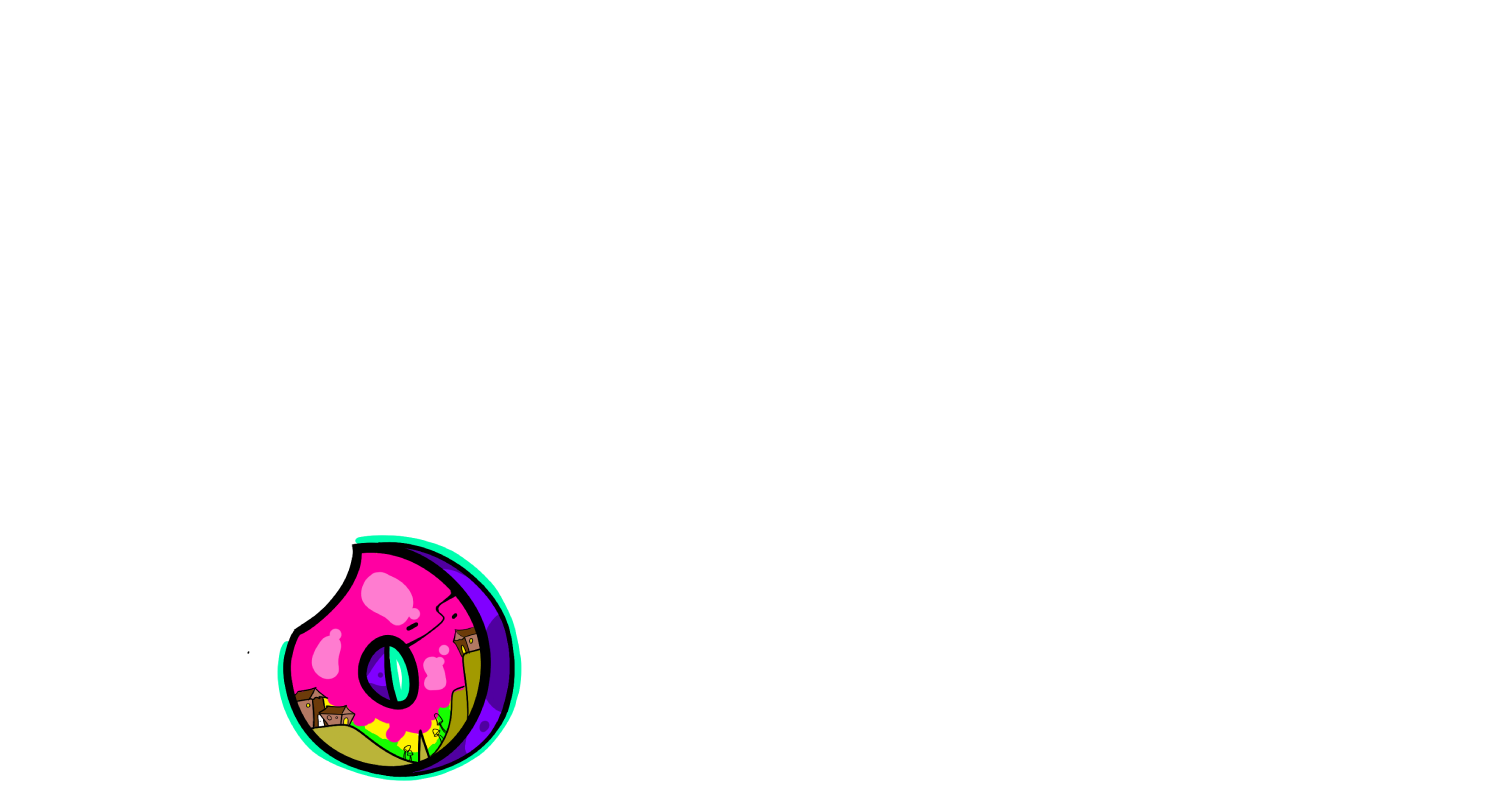
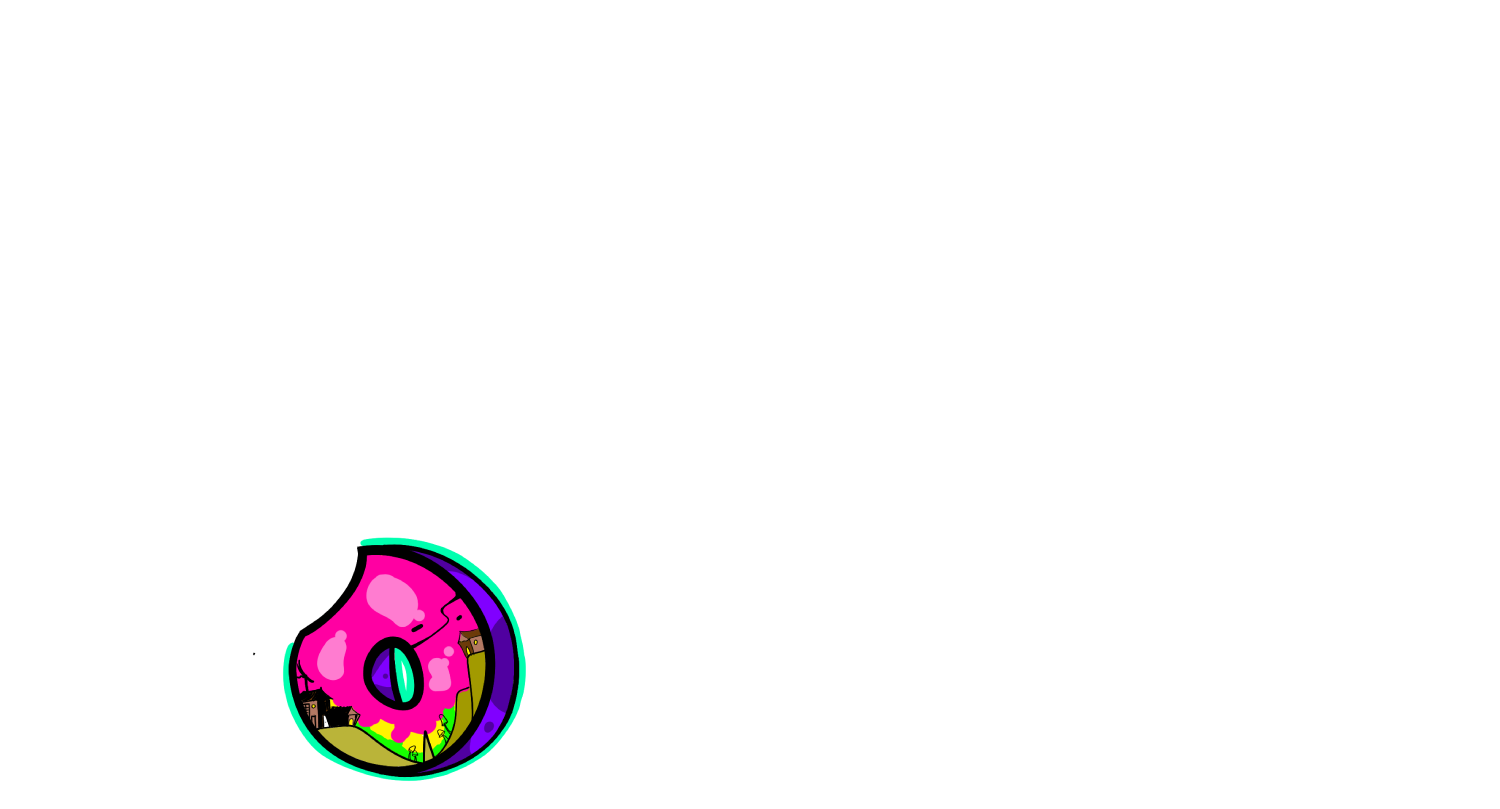
up

Changed region(s): [[0.184, 0.6489, 0.368, 0.958]]

diff --git a/pages/index.vue b/pages/index.vue
@@ -5,12 +5,12 @@
       ref="container"
       class="lg:h-full container h-carousel w-full flex flex-col items-center pt-10 justify-center"
     >
-      <img
+      <!-- <img
         ref="image"
         src="../assets/images/Pump.webp"
         class="w-44 image object-contain opacity-80 Stat2"
         alt=""
-      />
+      /> -->
       <!-- <div
         class="w-1/2 h-dialog lg:flex items-center justify-center py-3 px-14 hidden"
       >
@@ -26,10 +26,15 @@
       </h1>
       <div class="w-full h-rem40 flex flex-col items-center justify-center">
         <div class="flex flex-col items-center justify-center px-48">
-          <div class="absolute w-96 lg:w-full">
+          <div class="flex items-center absolute justify-center w-full">
             <img
-              src="../assets/images/HocusUp.webp"
-              class="lg:w-screen object-contain Up opacity-0"
+              src="../assets/images/HocusUp1.webp"
+              class="object-contain absolute Up opacity-0"
+              alt=""
+            />
+            <img
+              src="../assets/images/HocusUp2.webp"
+              class="object-contain absolute Up2"
               alt=""
             />
           </div>
@@ -138,44 +143,46 @@ const image = ref(null);
 onMounted(() => {
   const TL = gsap.timeline();
   TL.to(".Up", { opacity: 1, duration: 1, delay: 1 });
+  TL.from(".Up2", { opacity: 0, y: 80, duration: 1, rotate: 100 });
+
   TL.to(".P", { opacity: 1, duration: 0.5 });
   TL.to(".O", { opacity: 1, duration: 0.5 });
   TL.to(".C", { opacity: 1, duration: 0.5 });
   TL.to(".U", { opacity: 1, duration: 0.5 });
   TL.to(".S", { opacity: 1, duration: 0.5 });
 
-  TL.from(image.value, {
-    opacity: 0,
-    duration: 1,
-  });
-  TL.to(image.value, {
-    duration: 66,
-    motionPath: {
-      path: [
-        { x: 200, y: -110 },
-        { x: 1000, y: -100 },
-        { x: 1300, y: -110 },
-        { x: 1400, y: -100 },
+  // TL.from(image.value, {
+  //   opacity: 0,
+  //   duration: 1,
+  // });
+  // TL.to(image.value, {
+  //   duration: 66,
+  //   motionPath: {
+  //     path: [
+  //       { x: 200, y: -110 },
+  //       { x: 1000, y: -100 },
+  //       { x: 1300, y: -110 },
+  //       { x: 1400, y: -100 },
 
-        { x: 1300, y: 500 },
-        { x: 1000, y: 600 },
-        { x: 200, y: 500 },
+  //       { x: 1300, y: 500 },
+  //       { x: 1000, y: 600 },
+  //       { x: 200, y: 500 },
 
-        { x: 0, y: 100 },
-      ],
-      ease: "power1.inOut",
-      autoRotate: true,
-    },
-    repeat: -1,
-  });
-  TL.to(image.value, {
-    opacity: 0,
-    duration: 2,
-  });
-  TL.to(image.value, {
-    opacity: 0.7,
-    duration: 2,
-  });
+  //       { x: 0, y: 100 },
+  //     ],
+  //     ease: "power1.inOut",
+  //     autoRotate: true,
+  //   },
+  //   repeat: -1,
+  // });
+  // TL.to(image.value, {
+  //   opacity: 0,
+  //   duration: 2,
+  // });
+  // TL.to(image.value, {
+  //   opacity: 0.7,
+  //   duration: 2,
+  // });
 });
 const responsiveOptions = ref([
   {

diff --git a/components/VideoCard.vue b/components/VideoCard.vue
@@ -19,11 +19,11 @@
       </h3>
       <div class="w-full h-full flex items-center justify-around px-3">
         <h3
-          class="text-4xl border-2 border-dashed border-mainOrange rounded-md px-8 text-mainBrown flex items-center justify-center space-x-2"
+          class="text-4xl border-2 border-dashed border-mainOrange rounded-md py-2 px-8 text-mainBrown flex items-center justify-center space-x-2"
         >
           <span class="text-xs text-mainOrange">تومان</span>
           <span>599,000</span>
-          <PhMoney :size="20" weight="fill" />
+          <PhMoney :size="34" weight="fill" />
         </h3>
         <div class="flex items-center space-y-4 flex-col">
           <NuxtLink to="/learn/productDetail">

diff --git a/pages/shop/shop.vue b/pages/shop/shop.vue
@@ -63,6 +63,5 @@ onMounted(() => {
 .p-paginator .p-paginator-pages .p-paginator-page:not(.p-highlight):hover {
   background-color: gray;
   color: white;
-  transition: all ease 2;
 }
 </style>

diff --git a/pages/learn/learn.vue b/pages/learn/learn.vue
@@ -32,6 +32,7 @@
       />
     </div>
     <div class="h-screen w-full bg-mainBrown"></div>
+    <Footer />
   </div>
 </template>
 
